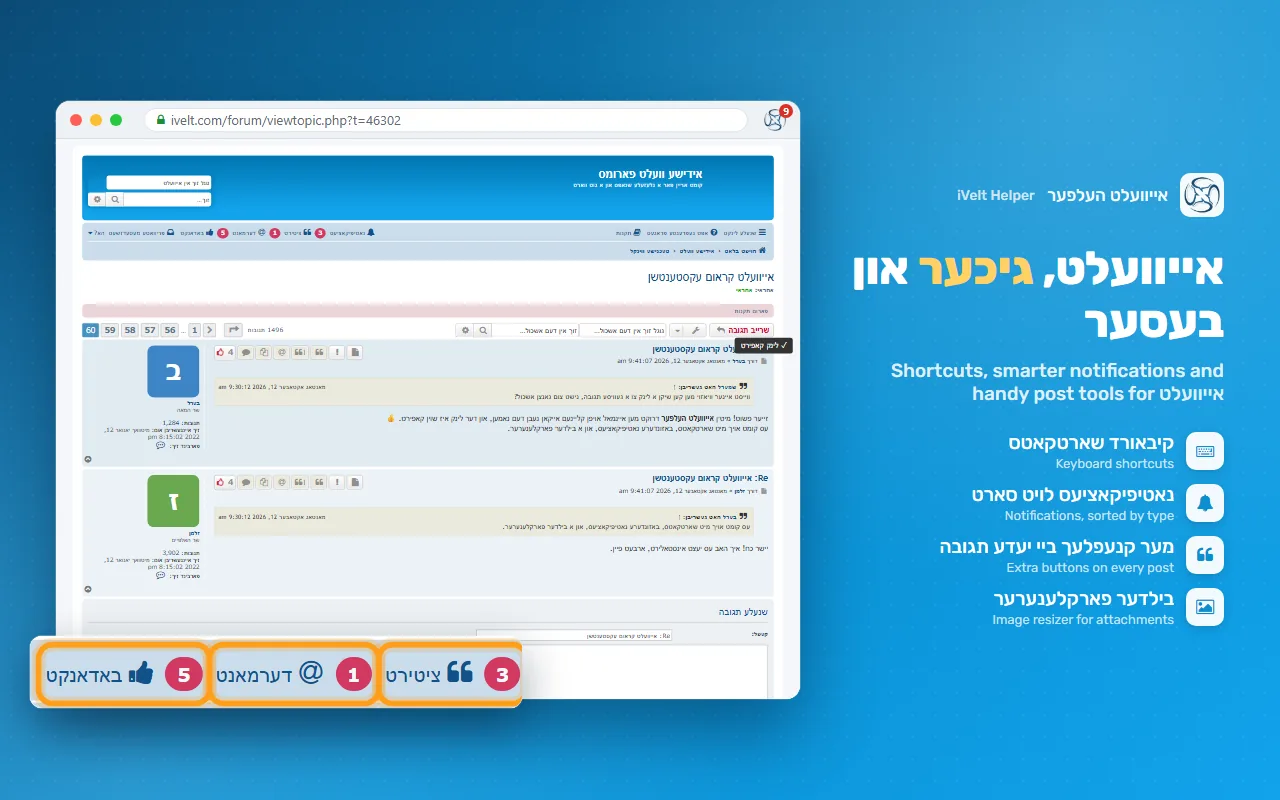
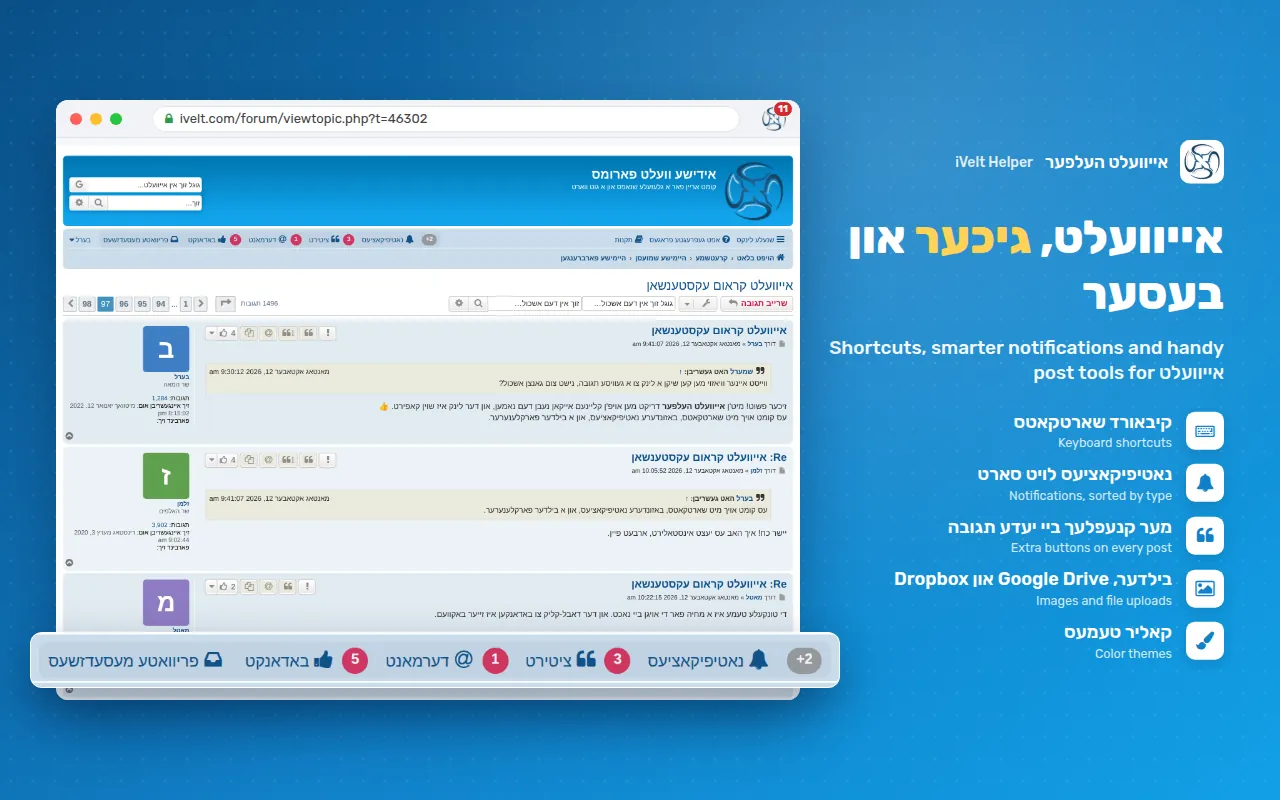
Discussion thread link, feature list and screenshots updated for 2.7.0

diff --git a/index.html b/index.html
@@ -4,7 +4,7 @@
     <meta charset="utf-8">
     <meta name="viewport" content="width=device-width, initial-scale=1">
     <title>iVelt Helper V2</title>
-    <meta name="description" content="A Chrome extension that adds shortcuts, notifications and other usability improvements to the אייוועלט forum.">
+    <meta name="description" content="A free Chrome and Edge extension that adds keyboard shortcuts, notifications, extra post buttons, color themes and other improvements to the אייוועלט forum.">
     <link rel="icon" href="img/icon128.png">
     <link rel="preconnect" href="https://fonts.googleapis.com">
     <link rel="preconnect" href="https://fonts.gstatic.com" crossorigin>
@@ -96,17 +96,17 @@
                     <h3><span data-l="en">Keyboard shortcuts</span><span data-l="yi">קיבאורד שארטקאטס</span></h3>
                     <ul data-l="en">
                         <li><kbd>→</kbd> / <kbd>←</kbd> previous / next page</li>
-                        <li><kbd>Ctrl</kbd>+<kbd>Enter</kbd> submit a post</li>
-                        <li><kbd>Alt</kbd>+<kbd>v</kbd> preview</li>
+                        <li><kbd>↑</kbd> / <kbd>↓</kbd> top / bottom of the page</li>
+                        <li><kbd>Ctrl</kbd>+<kbd>Enter</kbd> send a post · <kbd>Alt</kbd>+<kbd>v</kbd> preview</li>
                         <li><kbd>Alt</kbd>+<kbd>a</kbd> active topics</li>
-                        <li><kbd>Alt</kbd>+<kbd>n</kbd> / <kbd>m</kbd> notifications</li>
+                        <li><kbd>Alt</kbd>+<kbd>n</kbd> notifications · <kbd>Alt</kbd>+<kbd>m</kbd> next unread</li>
                     </ul>
                     <ul data-l="yi">
                         <li><kbd>→</kbd> / <kbd>←</kbd> פריערדיגער / קומענדיגער בלאט</li>
-                        <li><kbd>Ctrl</kbd>+<kbd>Enter</kbd> שיק די תגובה</li>
-                        <li><kbd>Alt</kbd>+<kbd>v</kbd> פריוויו</li>
+                        <li><kbd>↑</kbd> / <kbd>↓</kbd> אנהייב / סוף פונעם בלאט</li>
+                        <li><kbd>Ctrl</kbd>+<kbd>Enter</kbd> שיק די תגובה · <kbd>Alt</kbd>+<kbd>v</kbd> פריוויו</li>
                         <li><kbd>Alt</kbd>+<kbd>a</kbd> אקטיווע אשכולות</li>
-                        <li><kbd>Alt</kbd>+<kbd>n</kbd> / <kbd>m</kbd> נאטיפיקאציעס</li>
+                        <li><kbd>Alt</kbd>+<kbd>n</kbd> נאטיפיקאציעס · <kbd>Alt</kbd>+<kbd>m</kbd> קומענדיגע אומגעליינטע</li>
                     </ul>
                 </div>
 
@@ -114,17 +114,23 @@
                     <h3><span data-l="en">Post buttons</span><span data-l="yi">קנעפלעך ביי א תגובה</span></h3>
                     <ul data-l="en">
                         <li>Quote only the last reply</li>
+                        <li>Quote just the words you select</li>
                         <li>Mention the poster</li>
                         <li>Quote in another topic, with images</li>
                         <li>Quote in the comments topic</li>
-                        <li>Copy a link to the post</li>
+                        <li>Copy a link to the post in one click</li>
+                        <li>See who liked a post, double-click to like it</li>
+                        <li>Profile card when you rest the mouse on a name</li>
                     </ul>
                     <ul data-l="yi">
                         <li>ציטיר נאר די לעצטע תגובה</li>
+                        <li>ציטיר נאר די אנגעצייכנטע ווערטער</li>
                         <li>דערמאן דעם שרייבער</li>
                         <li>ציטיר אין אנדערע אשכול, מיט די בילדער</li>
                         <li>ציטיר אינעם קאמענטארן אשכול</li>
-                        <li>קאפיר דעם לינק צו דער תגובה</li>
+                        <li>קאפיר דעם לינק צו דער תגובה מיט איין קליק</li>
+                        <li>זעט ווער עס האט באדאנקט, דאבל-קליק צו באדאנקען</li>
+                        <li>פראפייל קארטל ווען מען האלט די מויז אויף א נאמען</li>
                     </ul>
                 </div>
 
@@ -132,31 +138,51 @@
                     <h3><span data-l="en">Notifications</span><span data-l="yi">נאטיפיקאציעס</span></h3>
                     <ul data-l="en">
                         <li>Unread count on the toolbar icon</li>
-                        <li>Optional browser notifications</li>
-                        <li>Alert when new replies arrive</li>
-                        <li>Separate bells for quotes, thanks and mentions</li>
+                        <li>Browser notifications, even when אייוועלט isn't open</li>
+                        <li>Alert when new replies arrive in the topic you're reading</li>
+                        <li>Separate bells for quotes, likes and mentions, with a grey +N for older unread ones</li>
+                        <li>@mentions link to the user's profile</li>
                     </ul>
                     <ul data-l="yi">
                         <li>נומער אויפן אייקאן מיט אומגעליינטע נאטיפיקאציעס</li>
-                        <li>בראוזער נאטיפיקאציעס (אויב מען וויל)</li>
-                        <li>א מעלדונג ווען נייע תגובות קומען צו</li>
-                        <li>באזונדערע גלעקלעך פאר ציטירט, באדאנקט און דערמאנט</li>
+                        <li>בראוזער נאטיפיקאציעס, אפילו ווען אייוועלט איז נישט אפן</li>
+                        <li>א מעלדונג ווען נייע תגובות קומען צו אינעם אשכול וואס מען ליינט</li>
+                        <li>באזונדערע גלעקלעך פאר ציטירט, באדאנקט און דערמאנט, מיט א גרויען +N פאר עלטערע</li>
+                        <li>@דערמאנונגען זענען א לינק צום באנוצער'ס פראפייל</li>
                     </ul>
                 </div>
 
                 <div class="card">
                     <h3><span data-l="en">Writing posts</span><span data-l="yi">שרייבן א תגובה</span></h3>
                     <ul data-l="en">
-                        <li>Warning before losing an unsent post</li>
-                        <li>Image Resizer: shrink images under the attachment limit</li>
-                        <li>Pack a whole folder into one ZIP attachment</li>
-                        <li>Upload files to your Google Drive or Dropbox and insert a link <span class="badge">New</span></li>
+                        <li>Drafts are kept, so a closed tab or a crash doesn't lose your post</li>
+                        <li>Undo (Ctrl+Z) and redo (Ctrl+Y)</li>
+                        <li>Image Resizer: shrink images under the attachment limit, or pack a folder into one ZIP</li>
+                        <li>Paste an image straight into a post</li>
+                        <li>Upload files to your Google Drive or Dropbox and insert the link, in private messages too</li>
+                        <li>Warning before leaving a page with an unsent post</li>
                     </ul>
                     <ul data-l="yi">
-                        <li>ווארנט איידער מען פארלירט א נישט-געשיקטע תגובה</li>
-                        <li>בילדער פארקלענערער: פאסט בילדער אריין אין די עטעטשמענט גרייס</li>
-                        <li>מאכט א גאנצן פאלדער אין איין ZIP עטעטשמענט</li>
-                        <li>לייגט ארויף פיילס אויף אייער Google Drive אדער Dropbox און לייגט אריין א לינק <span class="badge">נייע</span></li>
+                        <li>דראפטס ווערן אפגעהיט, אז א פארמאכטער טאב אדער א קראך זאל עס נישט פארלירן</li>
+                        <li>צוריקדרייען (Ctrl+Z) און ווידער טון (Ctrl+Y)</li>
+                        <li>בילדער פארקלענערער: פאסט בילדער אריין אין די עטעטשמענט גרייס, אדער א גאנצן פאלדער אין איין ZIP</li>
+                        <li>פעיסט א בילד גלייך אין די תגובה</li>
+                        <li>לייגט ארויף פיילס אויף אייער Google Drive אדער Dropbox און לייגט אריין דעם לינק, אויך אין א פריוואטע מעסעדזש</li>
+                        <li>ווארנט איידער מען פארלאזט א בלאט מיט א נישט-געשיקטע תגובה</li>
+                    </ul>
+                </div>
+
+                <div class="card">
+                    <h3><span data-l="en">Reading</span><span data-l="yi">ליינען</span></h3>
+                    <ul data-l="en">
+                        <li>A topic with new replies opens at the first unread post</li>
+                        <li>Nicer spoilers: covered in place until clicked</li>
+                        <li>16 color themes, light and dark <span class="badge">New</span></li>
+                    </ul>
+                    <ul data-l="yi">
+                        <li>אן אשכול מיט נייע תגובות עפנט זיך ביי דער ערשטער אומגעליינטער</li>
+                        <li>שענערע ספוילערס: בלייבן צוגעדעקט ביז מען קליקט</li>
+                        <li>16 קאליר טעמעס, העל און טונקל <span class="badge">נייע</span></li>
                     </ul>
                 </div>
 
@@ -164,13 +190,15 @@
                     <h3><span data-l="en">And more</span><span data-l="yi">און נאך</span></h3>
                     <ul data-l="en">
                         <li>Google search within a topic or the whole site</li>
-                        <li>Print several pages or a whole topic</li>
+                        <li>Print several pages or a whole topic, optionally with who liked each post</li>
                         <li>Popup with quick links, quick sign-in and emergency sign-out</li>
+                        <li>Settings stay the same on all your computers</li>
                     </ul>
                     <ul data-l="yi">
                         <li>גוגל זוך אינעם אשכול אדער אין גאנץ אייוועלט</li>
-                        <li>פרינט עטליכע בלעטער אדער א גאנצן אשכול</li>
+                        <li>פרינט עטליכע בלעטער אדער א גאנצן אשכול, אויב מען וויל מיט ווער עס האט באדאנקט</li>
                         <li>פאפ-אפ מיט גיכע לינקס, אריינלאגן און עמערזשענסי ארויסלאגן</li>
+                        <li>די אנשטעלונגען בלייבן די זעלבע אויף אלע קאמפיוטערס</li>
                     </ul>
                 </div>
 
@@ -195,8 +223,8 @@
                     <figcaption><span data-l="en">Notifications</span><span data-l="yi">נאטיפיקאציעס</span></figcaption>
                 </figure>
                 <figure>
-                    <img src="img/screenshot-4-image-resizer.webp" alt="Image Resizer" loading="lazy">
-                    <figcaption><span data-l="en">Image Resizer</span><span data-l="yi">בילדער פארקלענערער</span></figcaption>
+                    <img src="img/screenshot-4-image-resizer.webp" alt="Images and files" loading="lazy">
+                    <figcaption><span data-l="en">Images and files</span><span data-l="yi">בילדער און פיילס</span></figcaption>
                 </figure>
                 <figure>
                     <img src="img/screenshot-5-settings.webp" alt="Settings" loading="lazy">
@@ -206,6 +234,24 @@
                     <img src="img/screenshot-6-shortcuts.webp" alt="Keyboard shortcuts" loading="lazy">
                     <figcaption><span data-l="en">Keyboard shortcuts</span><span data-l="yi">קיבאורד שארטקאטס</span></figcaption>
                 </figure>
+                <figure>
+                    <img src="img/screenshot-7-themes.webp" alt="Color themes" loading="lazy">
+                    <figcaption><span data-l="en">Color themes</span><span data-l="yi">קאליר טעמעס</span></figcaption>
+                </figure>
+                <figure>
+                    <img src="img/screenshot-8-writing.webp" alt="Reading and writing" loading="lazy">
+                    <figcaption><span data-l="en">Reading and writing</span><span data-l="yi">ליינען און שרייבן</span></figcaption>
+                </figure>
+            </div>
+        </div>
+    </section>
+
+    <section id="discussion">
+        <div class="wrap">
+            <div class="card">
+                <h3><span data-l="en">Questions or ideas?</span><span data-l="yi">פראגעס אדער אידייען?</span></h3>
+                <p data-l="en" style="margin:0;color:var(--muted)">Ask, report a problem or suggest a feature in the <a href="https://www.ivelt.com/forum/viewtopic.php?p=5758816#p5758816">discussion thread on אייוועלט</a>.</p>
+                <p data-l="yi" style="margin:0;color:var(--muted)">פרעגט, מעלדט א פראבלעם אדער שלאגט פאר א נייע זאך אינעם <a href="https://www.ivelt.com/forum/viewtopic.php?p=5758816#p5758816">אשכול אויף אייוועלט</a>.</p>
             </div>
         </div>
     </section>
@@ -227,6 +273,8 @@
         <span data-l="yi">געמאכט דורך מעמבערס פון אייוועלט.</span>
         <span>
             <a href="privacy.html"><span data-l="en">Privacy policy</span><span data-l="yi">פריוואטקייט פאליסי</span></a>
+            ·
+            <a href="https://www.ivelt.com/forum/viewtopic.php?p=5758816#p5758816"><span data-l="en">Discussion</span><span data-l="yi">אשכול</span></a>
             ·
             <a href="https://github.com/chucem/ivelt-helper">GitHub</a>
         </span>
